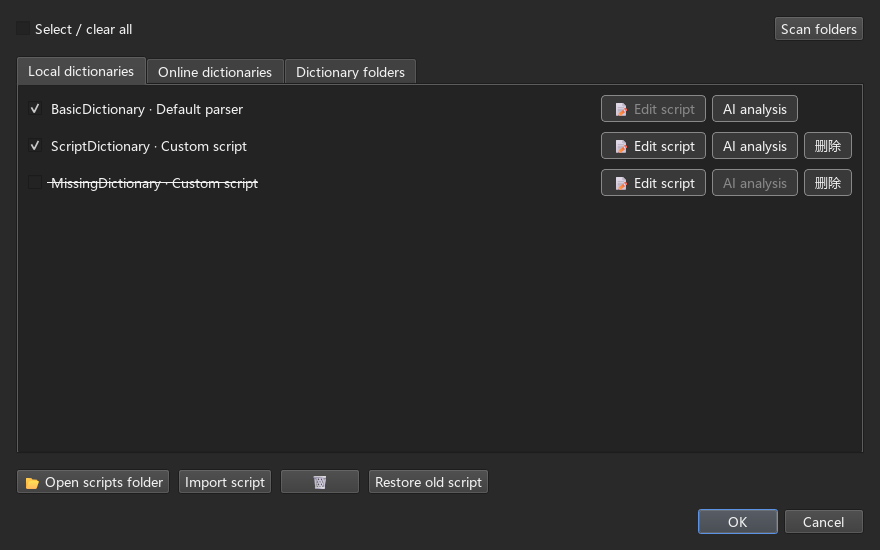
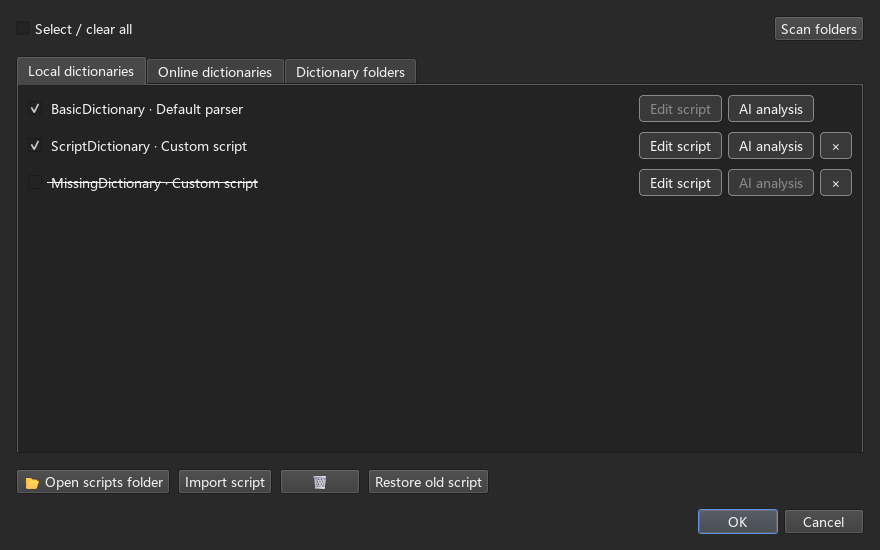
Simplify dictionary script edit and delete buttons

Changed region(s): [[0.675, 0.1545, 0.9511, 0.3709]]

diff --git a/src/gui/dictmanager.py b/src/gui/dictmanager.py
@@ -249,7 +249,7 @@ class DictManageDialog(Dialog):
             QPushButton:disabled { color: palette(mid); }
         """
 
-        edit_btn = QPushButton(tr("📝 编辑脚本"))
+        edit_btn = QPushButton(tr('编辑脚本'))
         edit_btn.setCursor(Qt.CursorShape.PointingHandCursor)
         edit_btn.setStyleSheet(btn_style)
 
@@ -312,7 +312,9 @@ class DictManageDialog(Dialog):
             'script_paths': kwargs.get('script_paths', [path] if path else []),
             'script_file': kwargs.get('script_file') or (Path(path).name if path else ''),
         }
-        delete_btn = QPushButton(tr('删除'))
+        delete_btn = QPushButton('×')
+        delete_btn.setToolTip(tr('删除脚本'))
+        delete_btn.setAccessibleName(tr('删除脚本'))
         delete_btn.setStyleSheet(btn_style)
         delete_btn.setVisible(bool(path or row['script_file'] or missing))
         delete_btn.clicked.connect(lambda checked=False, item=row: self.delete_dictionary(item))
